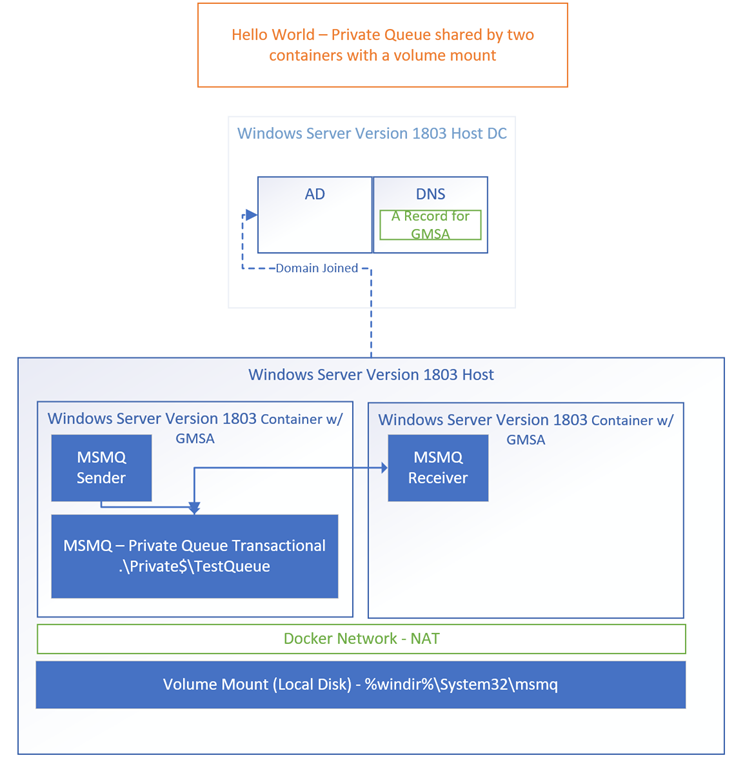
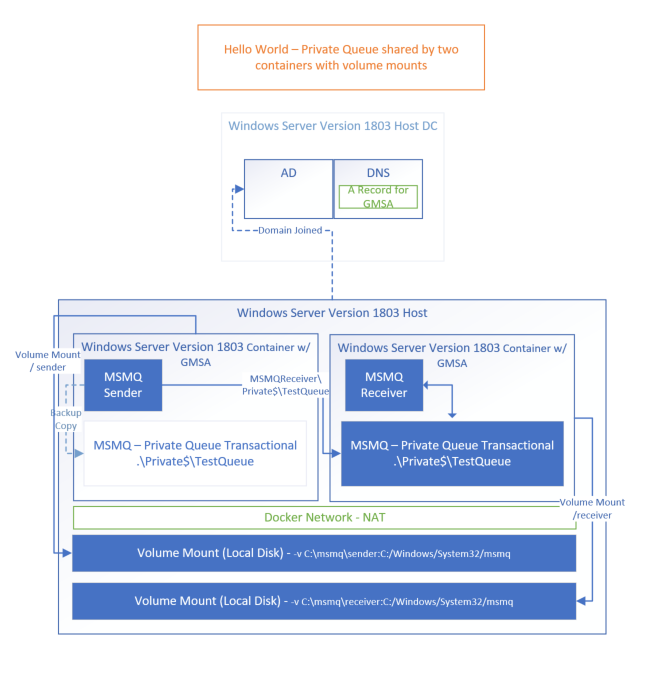
persistent volume one host

Changed region(s): [[0.0, 0.1546, 0.9682, 0.9278], [0.2421, 0.0, 0.7564, 0.1237], [0.0303, 0.9588, 0.9682, 0.9897]]

diff --git a/README.md b/README.md
@@ -297,15 +297,19 @@ These will describe some of the concepts that we're using in this scenario.
 
 A setup script in  **.\scripts\persistent-volume-mount-prep.ps1** will help with this process, and we'll want to run it on the host.  We will run the containers **sequentially** as each of the containers will have their own queue manager, which will assume ownership of the file mount.  This **prevents two containers** from using the **same volume mount** and running at the **same time**.
 
+This will assume that we've created the gMSA accounts in the **same host**, e.g. we will have a cred spec for **MSMQRec** and **MSMQSend**.
 ```powershell
-.\scripts\persistent-volume-mount-prep.ps1
+.\scripts\persistent-volume-mount-prep-one-host.ps1
 ```
+
+##Todo
+Explore if we can reach a private queue on a separate host.
 
 The script will set up a **local folder** for testing the **volume mount** on the host, for instance C:\msmq.
 
 It will grant **permissions** for **everyone** on that folder (this is just a test).
 
-We will also want to verify the bootstrapped data will exist in the mount once we run the container.  If the script completes successfully, we'll have the **storage** and **mapping** folders in the **volume mount**.
+We will also want to verify the bootstrapped data will exist in the mount once we run the container.  If the script completes successfully, we'll have the **storage** and **mapping** folders in the **volume mount**.  Check C:\ContainerData\msmq\sender and C:\ContainerData\msmq\receiver.
 
 ![Persistent volume data.]
 (media/persistent-volume/volume-mount-data.png 'Queue Data')
@@ -320,14 +324,32 @@ Get-ACL C:\<local volume mount>
 
 ![Peristent volume permissions.](media/persistent-volume/permissions.PNG 'Permissions')
 
-We'll want to run the containers next and point them to the local volume mount.
+We'll want to run the containers next and point them to the **local volume mount**.
+
+Run the sender.
+
+```powershell
+docker run --name=persistent_volume_sender_test --security-opt "credentialspec=file://MSMQSend.json" -h MSMQSend -d -v c:\msmq\sender:c:/Windows/System32/msmq -e QUEUE_NAME='MSMQRec\private$\testQueue' "<my repo>/windows-ad:msmq-persistent-volume-sender-test"
+```
+
+Run the receiver.
+
+```powershell
+docker run --name=persistent_volume_receiver_test --security-opt "credentialspec=file://MSMQRec.json" -h MSMQRec -it -v c:\msmq\receiver:c:/Windows/System32/msmq "<my repo>/windows-ad:msmq-persistent-volume-receiver-test"
+```
+
+![Persistent volume both containers.](media/persistent-volume/together.png 'Both Containers Interactive')
+
+We can also stop the Sender container (docker stop <container id>), and then the Receiver container should have less messages.
+
+![Persistent volume only receiver containers.](media/persistent-volume/only-receiver.png 'Only receiver container Interactive')
 
 If we're using **transparent network driver**, it might look something like this:
 
 Run the sender.
 
 ```powershell
-docker run --security-opt "credentialspec=file://MSMQsend.json" -it -v C:\msmq:c:/Windows/System32/msmq -h MSMQsend --network=tlan2 --dns=10.123.80.123 --name persistent_store <my-repo>/windows-ad:msmq-sender-test powershell
+docker run --security-opt "credentialspec=file://MSMQsend.json" -d -v C:\msmq:c:/Windows/System32/msmq -h MSMQsend -e QUEUE_NAME='MSMQRec\private$\testQueue' --network=tlan2 --dns=10.123.80.123 --name persistent_store <my-repo>/windows-ad:msmq-sender-test powershell
 ```
 
 Run the receiver.
@@ -341,7 +363,7 @@ If we're using **NAT network driver**, it might look something like this:
 Run the sender.
 
 ```powershell
-docker run --security-opt "credentialspec=file://MSMQsend.json" -it -v C:\msmq:c:/Windows/System32/msmq -h MSMQsend -p 80:80 -p 4020:4020 -p 4021:4021 -p 135:135/udp -p 389:389 -p 1801:1801/udp -p 2101:2101 -p 2103:2103/udp -p 2105:2105/udp -p 3527:3527 -p 3527:3527/udp -p 2879:2879 --name persistent_store <my-repo>/windows-ad:msmq-sender-test powershell
+docker run --security-opt "credentialspec=file://MSMQsend.json" -d -v C:\msmq:c:/Windows/System32/msmq -h MSMQsend -e QUEUE_NAME='MSMQRec\private$\testQueue' -p 80:80 -p 4020:4020 -p 4021:4021 -p 135:135/udp -p 389:389 -p 1801:1801/udp -p 2101:2101 -p 2103:2103/udp -p 2105:2105/udp -p 3527:3527 -p 3527:3527/udp -p 2879:2879 --name persistent_store <my-repo>/windows-ad:msmq-sender-test powershell
 ```
 
 Run the receiver.
